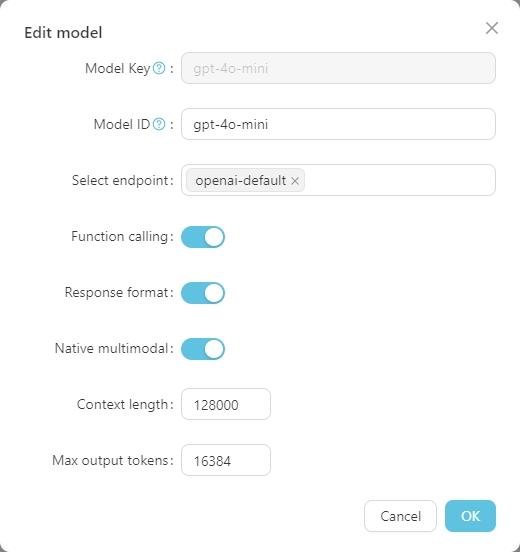
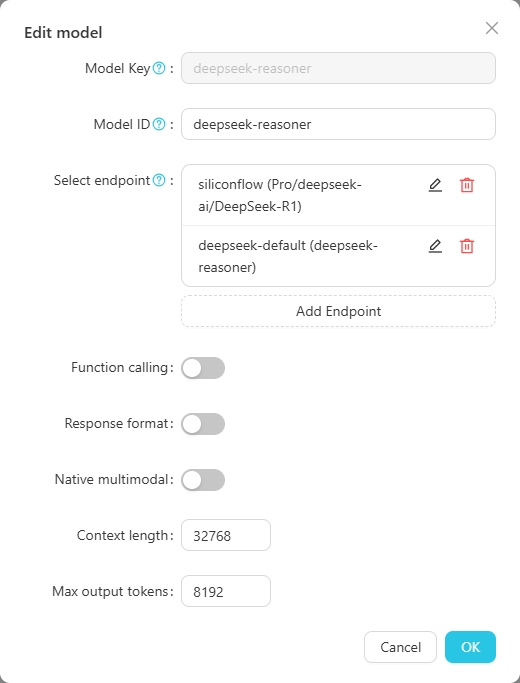
Update LLM settings documentation with model ID configuration details

diff --git a/README.md b/README.md
@@ -57,7 +57,11 @@ Click on any model to set its specific configuration, as shown below.
 
 ![LLM Settings](resources/images/remote-llms-settings-2_en-US.jpg)
 
-The `Model Key` is the standard name of the large model and generally does not need to be adjusted. The `Model ID` is the name used during actual deployment, which usually matches the `Model Key`. However, in deployments like Azure OpenAI, the `Model ID` is user-defined and therefore needs to be adjusted according to the actual situation.
+> The `Model Key` is the standard name of the large model and generally does not need to be adjusted. The `Model ID` is the name used during actual deployment, which usually matches the `Model Key`. However, in deployments like Azure OpenAI, the `Model ID` is user-defined and therefore needs to be adjusted according to the actual situation.
+>
+> Since the model IDs from different providers for the same model may vary, you can click the `Edit` button to configure the specific model ID under this endpoint, as shown in the figure below.
+>
+> ![Endpoint Model ID Configuration](resources/images/endpoint-model-id-settings_en-US.jpg)
 
 #### Custom Large Language Model Interface Configuration
 

diff --git a/README_zh.md b/README_zh.md
@@ -57,7 +57,11 @@
 
 ![LLM 设置](resources/images/remote-llms-settings-2_zh-CN.jpg)
 
-其中 `模型 Key` 是大模型的标准名称，一般不需要调整。`模型 ID` 是实际部署时的名称，一般情况下与 `模型 Key` 一致，但是在 Azure OpenAI 等部署中 `模型 ID` 是由用户自定义的，因此需要根据实际情况调整。
+> 其中 `模型 Key` 是大模型的标准名称，一般不需要调整。`模型 ID` 是实际部署时的名称，一般情况下与 `模型 Key` 一致，但是在 Azure OpenAI 等部署中 `模型 ID` 是由用户自定义的，因此需要根据实际情况调整。
+>
+> 由于同一模型的不同提供商的模型 ID 可能不同，您可以点击 `编辑` 按钮来配置该端点下该模型的具体模型 ID，如下图。
+>
+> ![端点模型 ID 配置](resources/images/endpoint-model-id-settings_zh-CN.jpg)
 
 #### 自定义大语言模型接口配置
 
